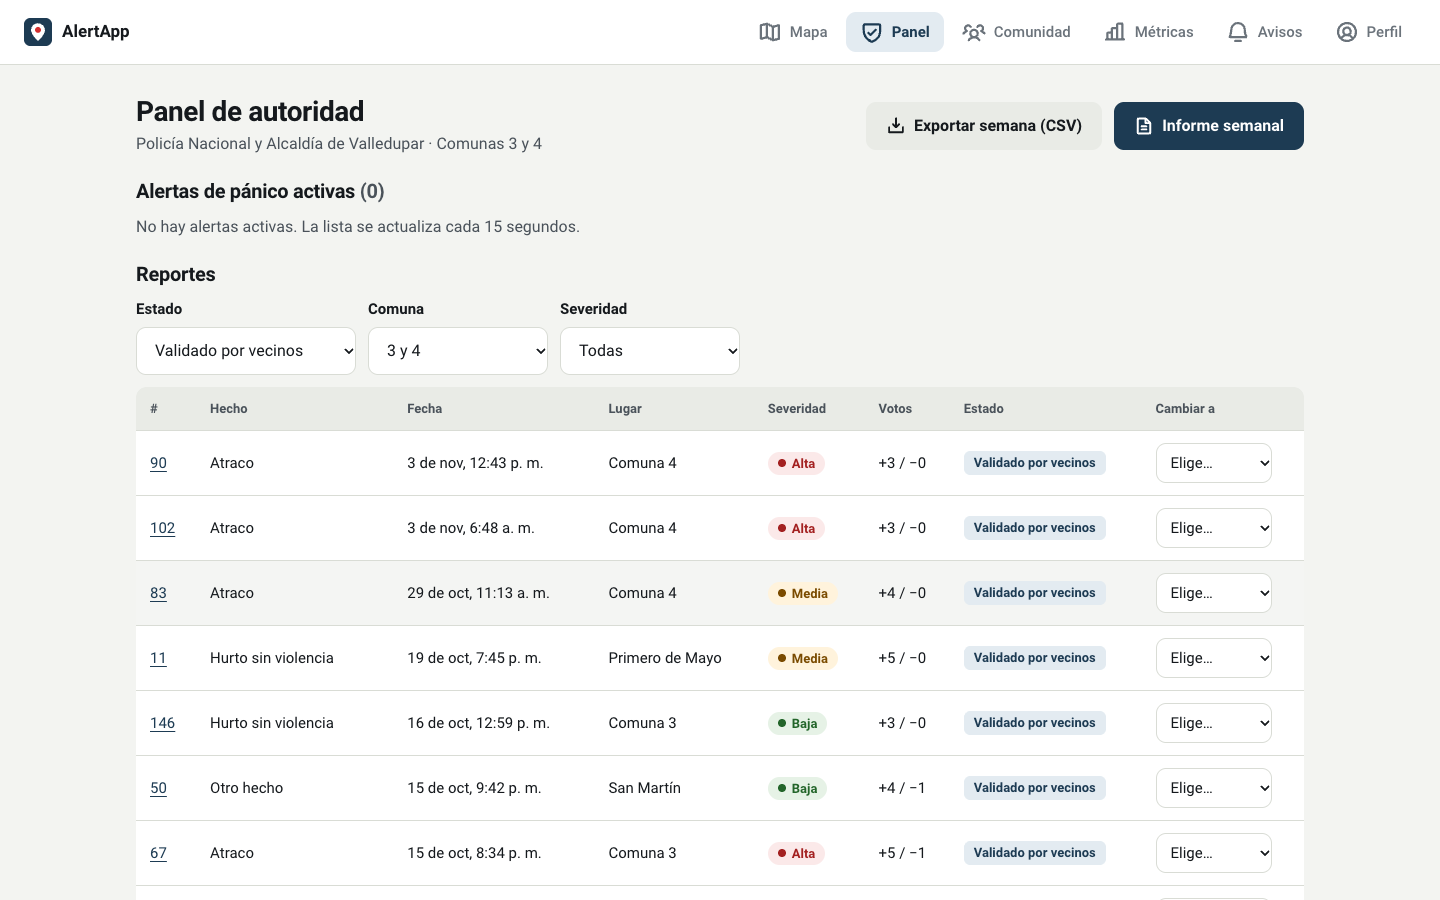
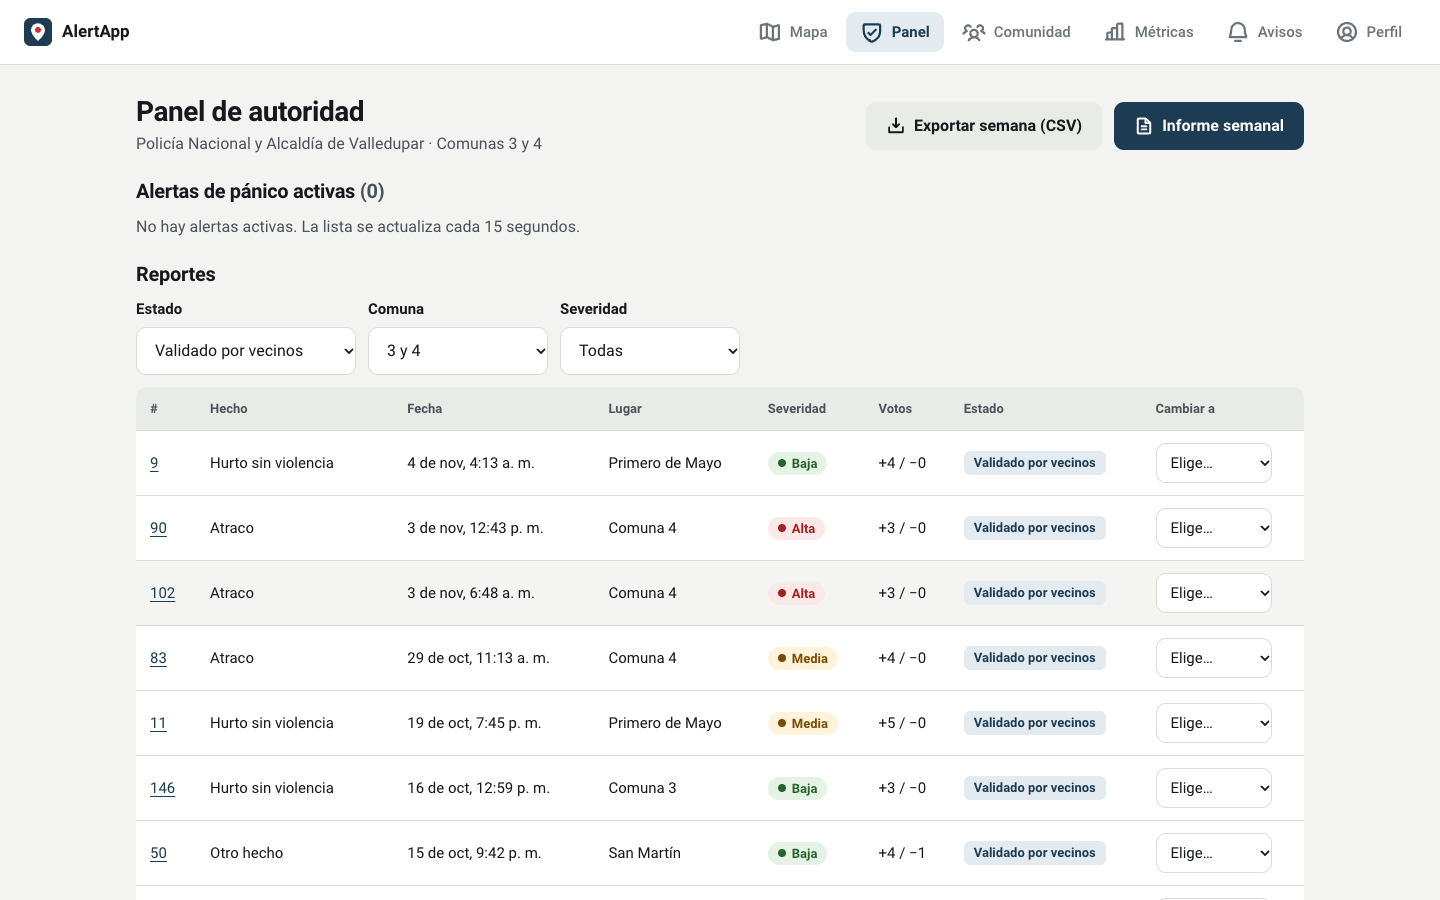
docs(capturas): capturas con la base de demostración limpia
Las anteriores mostraban textos y avisos que dejan las pruebas e2e. El script
de capturas ahora espera a que terminen de cargar las teselas del mapa. Las
capturas con mapa se dejan en la versión anterior porque el servidor de
teselas de OpenStreetMap no respondió.

diff --git a/frontend/e2e/capturas/capturas.spec.ts b/frontend/e2e/capturas/capturas.spec.ts
@@ -8,6 +8,14 @@ import { api, AUTORIDAD, CIUDADANO, ingresar, token } from '../ayudas'
 const DESTINO = '../docs/capturas'
 
 async function foto(page: Page, nombre: string) {
+  // Si la pantalla tiene mapa, espera a que carguen las teselas de OpenStreetMap para que no salga el fondo gris.
+  await page
+    .waitForFunction(
+      () => [...document.querySelectorAll<HTMLImageElement>('img.leaflet-tile')].every((t) => t.complete),
+      undefined,
+      { timeout: 8_000 },
+    )
+    .catch(() => {})
   await page.waitForTimeout(900)
   await page.screenshot({ path: `${DESTINO}/${nombre}.png` })
 }
